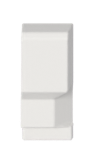
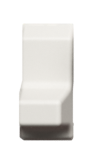
feat(panel): shared cap geometry coloured by each cap's own reference crop
Black and white drawbar caps are one part (nose base sticking out left,
fitted to the reference outline); each is rendered from the camera where it
sits and coloured by its own reference crop projected from there (D17).
Silhouette IoU 0.96 / 0.92 / 0.94.

Changed region(s): [[0.1875, 0.125, 0.7812, 0.9062]]

diff --git a/assets/blender/parts_cap.py b/assets/blender/parts_cap.py
@@ -22,24 +22,25 @@ BLOCK_TOP_FRONT = 0.02  # top edge of that face
 NOSE_TOP_FRONT = -0.62  # front edge of the nose top
 # EMPIRICAL (reference, every drawbar): the nose top face spans this, left of centre; its
 # right wall slopes down to the full-width base
-NOSE_TOP_X = (-0.39, 0.12)
+NOSE_TOP_X = (-0.43, 0.12)
+NOSE_LEFT = -0.45  # EMPIRICAL: the nose base sticks out left of the block (silhouette fit)
 BASE_H = 0.10  # EMPIRICAL: low base band seen in front of the nose (reference)
 CAP_TAPER = 0.12  # EMPIRICAL: block top is about 0.88 of its base width (photo, front view)
 CAP_BEVEL = 0.09
 CAP_LIFT = 0.03  # cap floats above the plate so the slot shows under it
 # Layer-fader cap EMPIRICAL from its photo: a frustum, top smaller than the base on all sides,
 # rounded edges. Base 96 x 74 reference px.
-LAYER_W, LAYER_L, LAYER_H = 0.74, 0.58, 0.36
+LAYER_W, LAYER_L, LAYER_H = 0.74, 0.61, 0.36
 LAYER_TOP = (0.82, 0.50)  # top width / length as a fraction of the base
 LAYER_BEVEL = 0.07
 # EMPIRICAL: slot is about 22 px wide on the reference, 0.22 of the cap width.
 SLOT_W, SLOT_LEN, SLOT_DEPTH, PLATE_T = 0.17, 3.4, 0.16, 0.2
 
 
-def _section(y, z, top_x):
-    """Cross-section at y: full cap width at the bottom, the top edge between `top_x`."""
+def _section(y, z, top_x, left=-CAP_W / 2):
+    """Cross-section at y: bottom from `left` to the right edge, top edge between `top_x`."""
     hb, zl = CAP_W / 2, CAP_LIFT
-    return [(-hb, y, zl), (hb, y, zl), (top_x[1], y, zl + z), (top_x[0], y, zl + z)]
+    return [(left, y, zl), (hb, y, zl), (top_x[1], y, zl + z), (top_x[0], y, zl + z)]
 
 
 def fader_cap(m, key):
@@ -53,12 +54,12 @@ def fader_cap(m, key):
         (CAP_BACK, ht * 0.86, blk),
         (CAP_BACK - 0.08, ht, blk),
         (BLOCK_TOP_FRONT, ht, blk),
-        (BLOCK_FRONT, hn, NOSE_TOP_X),
-        (NOSE_TOP_FRONT, hn, NOSE_TOP_X),
-        (NOSE_TOP_FRONT - 0.05, BASE_H, base),  # nose front drops onto the low base
-        (CAP_FRONT, BASE_H, base),
+        (BLOCK_FRONT, hn, NOSE_TOP_X, NOSE_LEFT),
+        (NOSE_TOP_FRONT, hn, NOSE_TOP_X, NOSE_LEFT),
+        (NOSE_TOP_FRONT - 0.05, BASE_H, base, NOSE_LEFT),  # nose front drops onto the base
+        (CAP_FRONT, BASE_H, base, NOSE_LEFT),
     ]
-    rings = [_section(y, z, tx) for y, z, tx in secs]
+    rings = [_section(y, z, tx, *lx) for y, z, tx, *lx in secs]
     return [loft("cap_body", rings, m[key], smooth=False, bevel=CAP_BEVEL, segments=8)]
 
 

diff --git a/assets/blender/build_proof.py b/assets/blender/build_proof.py
@@ -93,20 +93,25 @@ def render_ref_knobs(out: Path, scale: int) -> None:
 
 
 CAPS = {
-    "drawbar_cap_black": ("drawbar_shadow_black", C.fader_cap, "cap_black", "drawbar"),
-    "drawbar_cap_white": ("drawbar_shadow_white", C.fader_cap, "cap_white", "drawbar"),
-    "layer_cap_grey": ("layer_shadow_grey", C.layer_cap, "cap_grey", "layer"),
+    "drawbar_cap_black": ("drawbar_shadow_black", C.fader_cap),
+    "drawbar_cap_white": ("drawbar_shadow_white", C.fader_cap),
+    "layer_cap_grey": ("layer_shadow_grey", C.layer_cap),
 }
 
 
 def render_caps(out: Path, scale: int) -> None:
-    """Caps as real parts: one geometry per part (both drawbar colours share it, same camera),
-    shaded with the calibrated materials, then the cap's shadow from the same geometry."""
-    for name, (shadow, make, mat, lean) in CAPS.items():
-        m = fresh(scale, name, lean)
-        make(m, mat)
+    """Caps as real parts: one geometry per part (both drawbar colours share it), seen from
+    the camera where that cap sits on the reference (`LEAN[<cap>]`), coloured by the
+    reference crop projected from that camera (D17, `proj_<cap>.png` from panel_refbake), so
+    the outline comes from the geometry and the colour exactly from the reference. Then the
+    cap's shadow from the same geometry."""
+    for name, (shadow, make) in CAPS.items():
+        fresh(scale, name, name)
+        make({"proj": M.projected(f"proj_{name}", P.RAW_DIR / f"proj_{name}.png")}, "proj")
+        cy = bpy.context.scene.cycles
+        cy.use_denoising, cy.samples = False, 64  # unlit texture: no noise, keep it sharp
         S.render(out / f"{name}_{scale}x.png")
-        m = fresh(scale, shadow, lean)
+        m = fresh(scale, shadow, name)
         S.flags(C.plate_slot(M.catcher_mats()), catcher=True)
         S.flags(make(m, "cap_black"), holdout=True)
         S.render(out / f"{shadow}_{scale}x.png")
